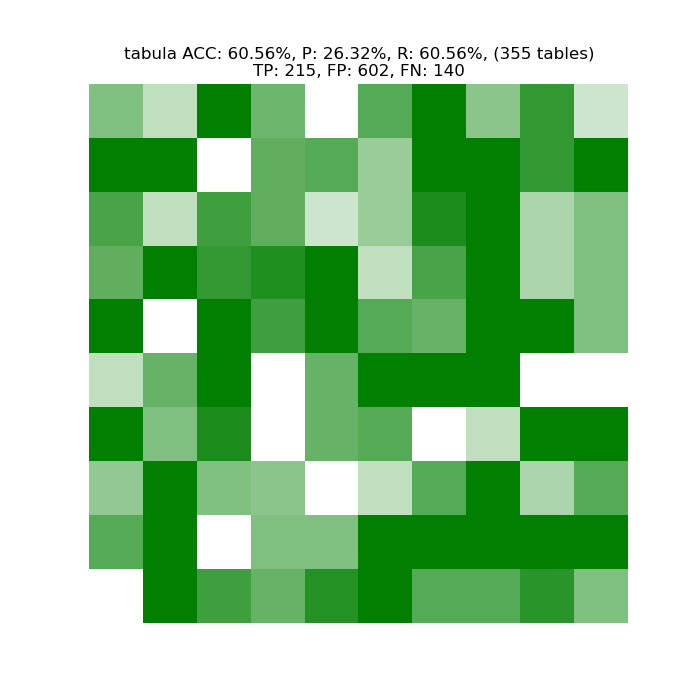
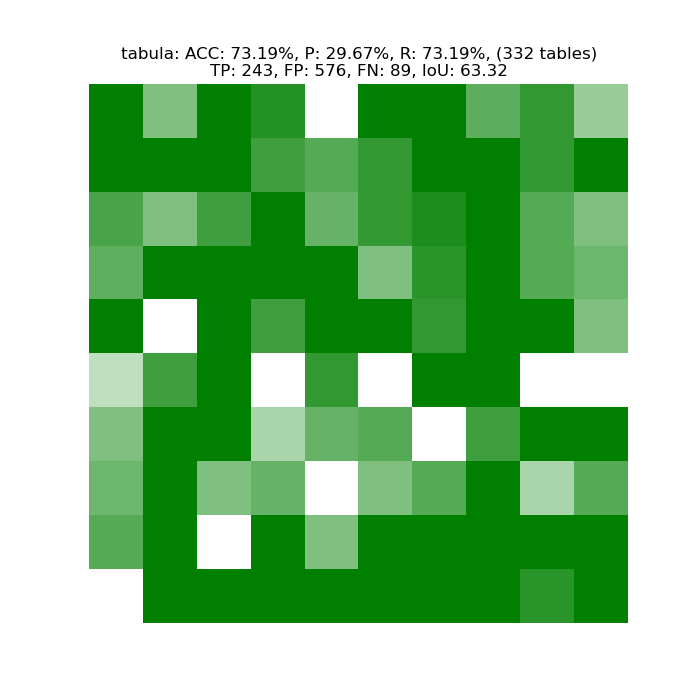
Updated results with new dataset (5 keywords)

diff --git a/analysis/tab2know_tests/show_results_tab2know.py b/analysis/tab2know_tests/show_results_tab2know.py
@@ -1,11 +1,19 @@
+import logging
 import sys
 sys.path.insert(0, "../../")
 from core.analysis.results_plotter import plot_save_results
 from core.analysis.check_results_over_groundtruth import load_groundtruth, check_results
 
 
-if __name__ == '__main__':
-    csv_folder="out_tab2know/csv"
+def create_plots_results(method_used:str, show_fig:bool=True):
+    csv_folder = "out_tab2know/csv"
     gth = load_groundtruth("../DATASET/GROUNDTRUTH_DATASET.csv")
     TP, TN, FP, FN, acc_iou, files_percentage_ok = check_results(csv_folder, gth, split_char='-')
-    plot_save_results(TP, TN, FP, FN, acc_iou, files_percentage_ok, method_used="tab2know", color_min=0, color_max=100, save_to="../results")
+    plot_save_results(TP, TN, FP, FN, acc_iou, files_percentage_ok, method_used=method_used,  color_min=0, color_max=100, save_to="../results", show_fig=show_fig)
+
+
+if __name__ == '__main__':
+    logging.basicConfig(level=logging.DEBUG)
+    method_used = 'tab2know'
+    create_plots_results(method_used, show_fig=True)
+

diff --git a/core/analysis/results_plotter.py b/core/analysis/results_plotter.py
@@ -81,6 +81,7 @@ def plot_save_results(TP, TN, FP, FN, acc_iou, files_percentage_ok, method_used=
     N = 0
     acc = (TP+TN)/(P+N)
     accuracy_over_pdfs = np.mean(y)
+    ACC_IOU = sum(acc_iou)/len(acc_iou)
     data = {
            "ACC": round(acc*100, 2),
            "P": round(precision*100, 2),
@@ -88,10 +89,11 @@ def plot_save_results(TP, TN, FP, FN, acc_iou, files_percentage_ok, method_used=
            "TP": TP,
            "FP": FP,
            "FN": FN,
+           "ACC_IOU": ACC_IOU,
            "TABLES_TOTAL": tables_num,
        }
     interesting_metrics = "{}: ACC: {:.2f}%, P: {:.2f}%, R: {:.2f}%, ({} tables)".format(method_used,  acc*100, precision*100, recall*100, tables_num)
-    all_metrics_row = "TP: {}, FP: {}, FN: {}, IoU: {}".format(TP,FP,FN, acc_iou)
+    all_metrics_row = "TP: {}, FP: {}, FN: {}, IoU: {:.2f}".format(TP,FP,FN, ACC_IOU*100)
     plt.title(interesting_metrics + "\n" + all_metrics_row)
     plt.axis('off')
     plt.imshow(y, cmap=cmap, vmin=color_min, vmax=color_max)
